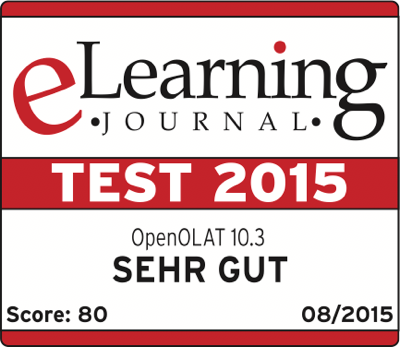
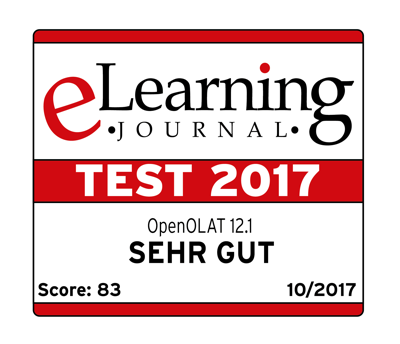
OO-3269 update about page, add new test results

diff --git a/src/main/java/org/olat/login/_content/about.html b/src/main/java/org/olat/login/_content/about.html
@@ -41,12 +41,15 @@
 		$r.translate("about.elearningjournal.test.2015")
 	</p>
 	<p>
-		<a href="http://www.frentix.com/wp-uploads/2015/08/elearningJournal_Test_OpenOLAT_2015.pdf" target="_blank" class="o_link_extern">
-			<i class="o_icon o_icon_external_link"> </i> 
-			Testbereich OpenOLAT 10.3
+		<a href="http://www.frentix.com/wp-uploads/2018/01/eLJ32017_TEST_frentix_final.pdf" target="_blank" class="o_link_extern">
+			<i class="o_icon o_filetype_pdf"> </i> 
+			Testbericht OpenOLAT 12.1
 		</a>
-		<br />
-		<a href="http://www.elearning-journal.de" target="_blank" class="text-muted o_link_extern">eLearning Journal | Themenheft Praxistest: weiterbilden 2.0</a>		
+ 		&nbsp;&nbsp;|&nbsp;&nbsp;  
+		<a href="http://www.elearning-journal.de/index.php?id=12" target="_blank" class="text-muted o_link_extern">
+			<i class="o_icon o_icon_external_link"> </i>
+			eLearning Journal
+		</a>		
 	</p>
 	
 	<h2>
